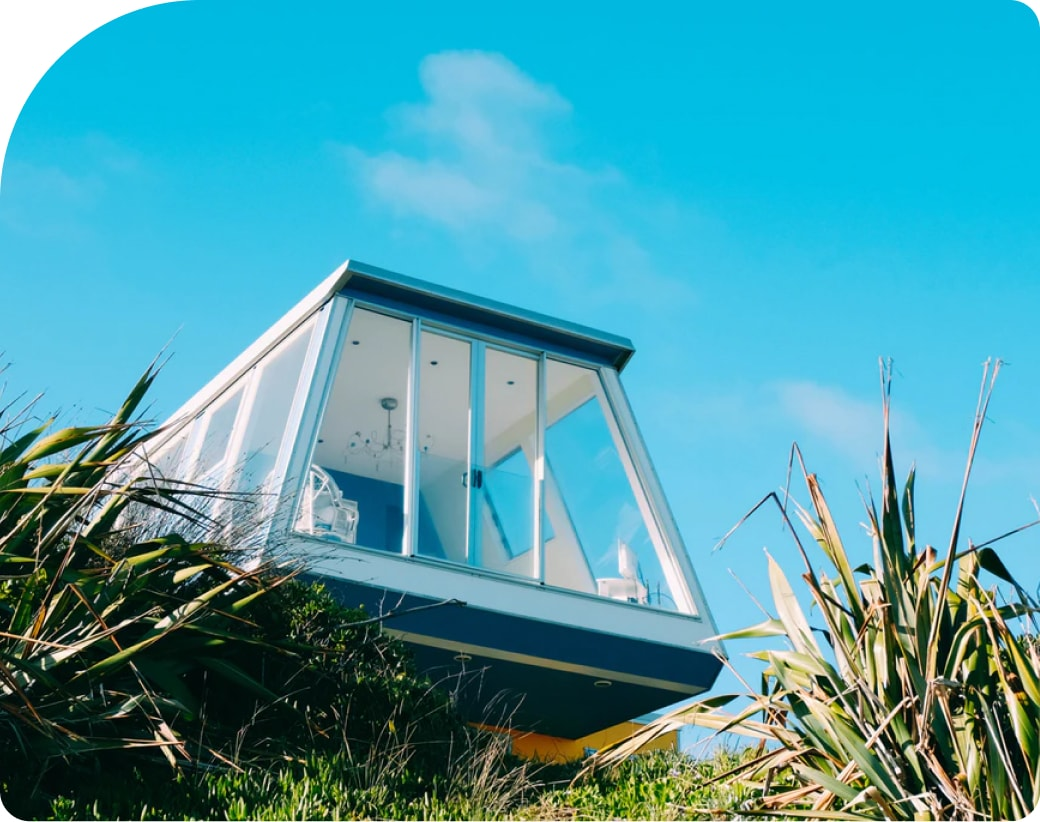
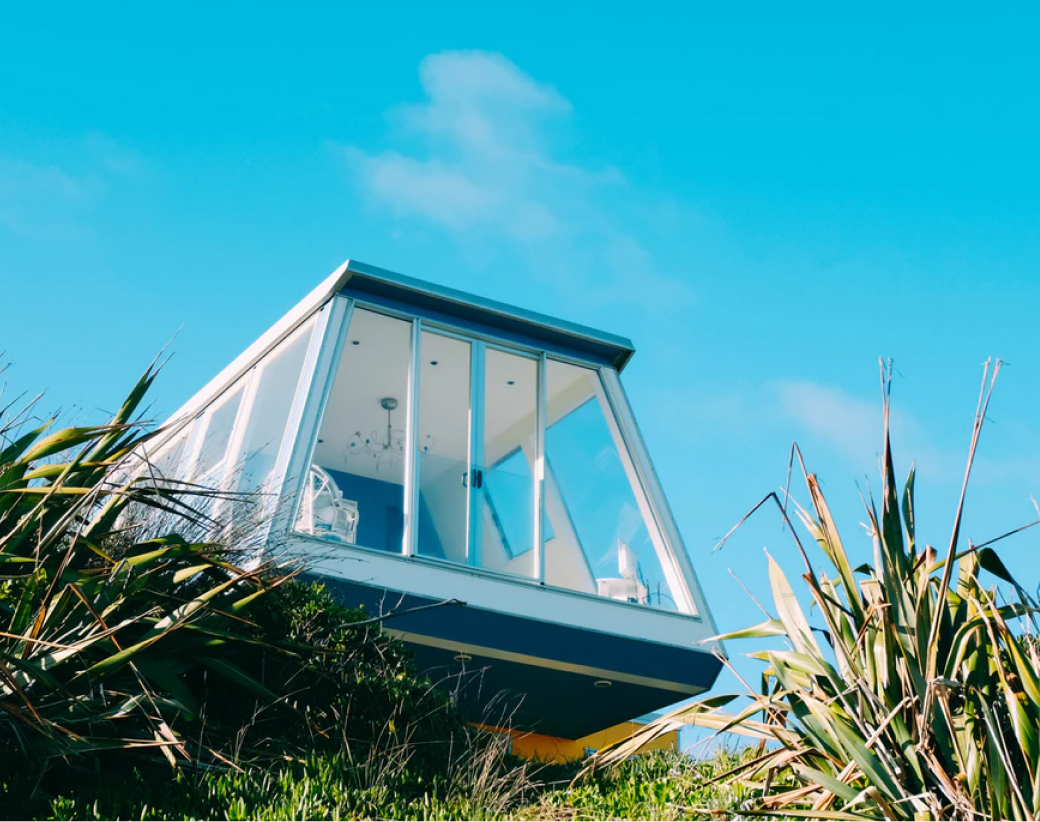
completed reesponsive design

diff --git a/src/parts/Hero.js b/src/parts/Hero.js
@@ -16,32 +16,43 @@ export default function Hero(props) {
   return (
     <Fade bottom>
       <section className="container pt-4 mb-5">
-        <div className="row align-items-center ">
+        <div className="row align-items-center d-block d-lg-none">
           <div
-            className="col-auto order-2 order-md-1 h-full"
+            className="col-auto order-2 order-lg-1 h-full"
             style={{ width: 530 }}
           >
-            <h1 className="font-weight-bold line-height-1 mb-3">
+            <h3 className="font-weight-bold line-height-1 mb-3">
+              Forget Busy Work, <br />
+              Start Next Vacation
+            </h3>
+          </div>
+        </div>
+        <div className="row align-items-center ">
+          <div
+            className="col-auto order-2 order-lg-1 h-full d-flex flex-wrap flex-column  "
+            style={{ width: 530 }}
+          >
+            <h1 className="font-weight-bold line-height-1 mb-3 d-none d-lg-block">
               Forget Busy Work, <br />
               Start Next Vacation
             </h1>
             <p
-              className="mb-4 font-weight-light text-gray-500 w-75"
+              className="mb-4 font-weight-light text-gray-500  text-lg-left text-center col-md-9 col-12 px-0"
               style={{ lineHeight: "170%" }}
             >
               We provide what you need to enjoy your holiday with family. Time
               to make another memorable moments.
             </p>
             <Button
-              className="btn px-5"
+              className="btn px-5 mx-auto mx-md-0 mr-md-auto "
               hasShadow
               isPrimary
               onClick={showMostPicked}
             >
               Show Me Now
             </Button>
-            <div className="row mt-5">
-              <div className="col-auto" style={{ marginRight: 35 }}>
+            <div className="row mt-5 d-flex justify-content-around">
+              <div className="col-auto text-center">
                 <img
                   width="36"
                   height="36"
@@ -49,13 +60,13 @@ export default function Hero(props) {
                   alt={`${props.data.travelers} Travelers`}
                 />
                 <h6 className="mt-3">
-                  {formatNumber(props.data.travelers)}
+                  {formatNumber(props.data.travelers)}{" "}
                   <span className="text-gray-500 font-weight-light">
                     travelers
                   </span>
                 </h6>
               </div>
-              <div className="col-auto" style={{ marginRight: 35 }}>
+              <div className="col-auto text-center">
                 <img
                   width="36"
                   height="36"
@@ -63,13 +74,13 @@ export default function Hero(props) {
                   alt={`${props.data.treasures} Treasures`}
                 />
                 <h6 className="mt-3">
-                  {formatNumber(props.data.treasures)}
+                  {formatNumber(props.data.treasures)}{" "}
                   <span className="text-gray-500 font-weight-light">
                     treasures
                   </span>
                 </h6>
               </div>
-              <div className="col-auto">
+              <div className="col-auto text-center mt-3 mt-md-0">
                 <img
                   width="36"
                   height="36"
@@ -85,11 +96,11 @@ export default function Hero(props) {
               </div>
             </div>
           </div>
-          <div className="col-12 col-md-6 order-1  d-flex justify-content-center order-md-2 mb-md-0 mb-4">
+          <div className="col-12 col-lg-6 order-1  d-flex justify-content-center order-lg-2 mb-lg-0 mb-4">
             <img
               src={ImageHero}
               alt="Room with couches"
-              className="img-fluid "
+              className="img-fluid rounded"
             />
           </div>
         </div>

diff --git a/src/parts/Header.js b/src/parts/Header.js
@@ -10,7 +10,6 @@ export default function Header(props) {
     return location.pathname === path ? " active" : "";
   };
 
-
   // if (props.name === "/properties/${item._id}") {
   //   return (
   //     <Fade>
@@ -27,7 +26,7 @@ export default function Header(props) {
 
   return (
     <Fade>
-      <header className="spacing-sm">
+      <header className="spacing-sm mb-md-5 mb-2">
         <div className="container">
           <nav className="navbar navbar-expand-lg navbar-light">
             <BrandIcon />

diff --git a/src/parts/Checkout/Completed.js b/src/parts/Checkout/Completed.js
@@ -7,7 +7,7 @@ export default function Completed() {
     <Fade>
       <div className="container" style={{ marginBottom: 30 }}>
         <div className="row justify-content-center text-center">
-          <div className="col-4">
+          <div className="col-md-4 col-12">
             <img
               src={CompletedIllustration}
               className="img-fluid"

diff --git a/src/pages/Checkout.js b/src/pages/Checkout.js
@@ -81,6 +81,7 @@ class Checkout extends Component {
           {(prevStep, nextStep, CurrentStep, steps) => (
             <>
               <Numbering
+                className="mt-5"
                 data={steps}
                 current={CurrentStep}
                 style={{ marginBottom: 50 }}

diff --git a/src/assets/scss/style.scss b/src/assets/scss/style.scss
@@ -61,7 +61,6 @@ header {
   border-bottom: 1px solid $gray-200;
   width: 100%;
   position: relative;
-  margin-bottom: 50px;
 
   .navbar {
     height: 80px;
